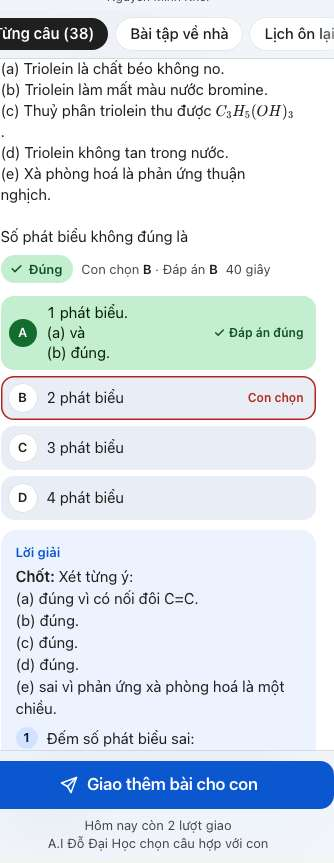
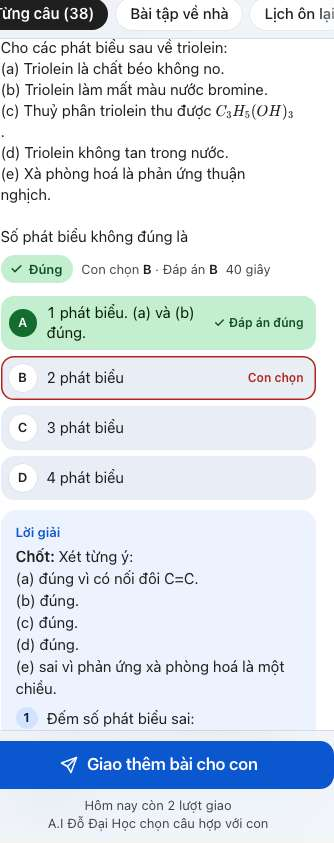
Vá ngắt dòng (Boss 17:43): KHÔNG tách ý ở PHƯƠNG ÁN — Hoá hay viết '(a), (b) và (c)' / '(1) và (3)' trong một phương án; chỉ ĐỀ và dòng LỜI GIẢI đi qua tachDongTheoY. Khoá nguồn viết lại (phương án là chỗ duy nhất không tách), test phương án giữ một dòng, đột biến 3/3, ảnh SAU 390 + 320 chụp lại.

diff --git a/tests/ph-bang-dong-thoi-gian-tung-cau-2109.test.tsx b/tests/ph-bang-dong-thoi-gian-tung-cau-2109.test.tsx
@@ -607,7 +607,7 @@ describe('TungCau — mở câu ⇒ hỏi máy chủ, phương án, lời giải
     await waitFor(() => expect(b3.container.querySelectorAll('[data-vung="cau-che"]').length).toBeGreaterThan(0))
   })
 
-  it('NGẮT DÒNG THEO Ý (thầy lệnh 21/09 17:3x, câu Triolein (a)…(e) dồn một cục): đề (danh sách + đã mở), phương án, lời giải đều qua tachDongTheoY — mỗi ý một dòng, câu hỏi kết một dòng riêng; (1)…(4) cũng vậy; đề không có ý KHÔNG đổi; công thức vẫn chỉ số dưới', async () => {
+  it('NGẮT DÒNG THEO Ý (thầy lệnh 21/09 17:3x, câu Triolein (a)…(e) dồn một cục): đề (danh sách + đã mở) và lời giải qua tachDongTheoY; PHƯƠNG ÁN giữ nguyên — mỗi ý một dòng, câu hỏi kết một dòng riêng; (1)…(4) cũng vậy; đề không có ý KHÔNG đổi; công thức vẫn chỉ số dưới', async () => {
     const TRIO = 'Cho các phát biểu sau về triolein: (a) Triolein là chất béo không no. (b) Triolein làm mất màu nước bromine. (c) Thuỷ phân triolein thu được $C_3H_5(OH)_3$. (d) Triolein không tan trong nước. (e) Xà phòng hoá là phản ứng thuận nghịch. Số phát biểu không đúng là'
     const raw = nhan(PH_APPLE)
     const c0 = raw.homNay.cau.find((c: { che?: string }) => !c.che)
@@ -621,7 +621,7 @@ describe('TungCau — mở câu ⇒ hỏi máy chủ, phương án, lời giải
     cleanup()
     // đã mở: đề ĐẦY ĐỦ của máy chủ + phương án + lời giải có ý
     const cauSau = JSON.stringify({ chot: 'Xét từng ý: (a) đúng vì có nối đôi. (b) đúng. (c) đúng. (d) đúng. (e) sai vì phản ứng xà phòng hoá là một chiều.', buoc: ['Đếm số phát biểu sai: (e) sai. Vậy có 1 phát biểu không đúng.'], ketQua: '(e)' })
-    goiChiTiet.mockResolvedValue({ kieu: 'ok', ct: docChiTietCau({ ...CHI_TIET, de: TRIO, phuongAn: ['A. 1. Nhận định (a) đúng. (b) sai.', 'B. 2', 'C. 3', 'D. 4'], dapAn: 'A', loiGiai: cauSau })! })
+    goiChiTiet.mockResolvedValue({ kieu: 'ok', ct: docChiTietCau({ ...CHI_TIET, de: TRIO, phuongAn: ['A. 1 phát biểu. (a) và (b) đúng.', 'B. Chỉ (a), (b) và (c)', 'C. (1) và (3)', 'D. 4'], dapAn: 'A', loiGiai: cauSau })! })
     const b = moMotCau(['moc-1'], pmOf(raw))
     const r0 = b.hang()[0]!
     fireEvent.click(r0.querySelector('button')!)
@@ -632,8 +632,10 @@ describe('TungCau — mở câu ⇒ hỏi máy chủ, phương án, lời giải
     expect(deDay[6]).toBe('Số phát biểu không đúng là') // câu hỏi kết một dòng riêng
     expect(r0.querySelector('.phm-cau__de sub, .phm-cau__de .katex')).toBeTruthy() // C₃H₅(OH)₃ vẫn có chỉ số dưới sau khi tách
     expect(r0.querySelector('.phm-cau__de')!.textContent).not.toContain('$')
-    const pa = r0.querySelector('.phm-pa li:first-child > span')!.textContent!.split('\n')
-    expect(pa.length).toBeGreaterThanOrEqual(2) // phương án cũng tách ý
+    // PHƯƠNG ÁN KHÔNG tách ý (Boss vá 17:43): "(a) và (b)", "(a), (b) và (c)", "(1) và (3)" là MỘT phương án — giữ nguyên một dòng logic
+    const pa = [...r0.querySelectorAll('.phm-pa li > span')].map((x) => x.textContent!)
+    expect(pa).toEqual(['1 phát biểu. (a) và (b) đúng.', 'Chỉ (a), (b) và (c)', '(1) và (3)', '4'])
+    expect(pa.some((x) => x.includes('\n'))).toBe(false)
     const chot = r0.querySelector('.phm-lg-chot')!.textContent!.split('\n')
     expect(chot.length).toBeGreaterThanOrEqual(5) // lời giải: Chốt tách (a)…(e)
     expect(r0.querySelector('.phm-lg-buoc li span')!.textContent!.split('\n').length).toBeGreaterThanOrEqual(2)
@@ -652,15 +654,19 @@ describe('TungCau — mở câu ⇒ hỏi máy chủ, phương án, lời giải
     expect((moMotCau(['moc-1'], pmOf(raw3)).hang()[0]!.querySelector('.phm-cau__de') as HTMLElement).textContent).toBe('Công thức phân tử của acetylene là gì?')
   })
 
-  it('khoá nguồn ngắt dòng: MỌI chỗ TungCau in đề / phương án / lời giải qua tachDongTheoY (một nguồn với TheCau, không regex mới) + CSS pre-line cho các khối ấy', () => {
+  it('khoá nguồn ngắt dòng: MỌI chỗ TungCau in ĐỀ / LỜI GIẢI qua tachDongTheoY (PHƯƠNG ÁN là chỗ duy nhất không) (một nguồn với TheCau, không regex mới) + CSS pre-line cho các khối ấy', () => {
     const tsx = fs.readFileSync(path.join(process.cwd(), 'src/components/ph-moi/bang/TungCau.tsx'), 'utf8').replace(/\/\/.*$/gm, '')
-    const dung = [...tsx.matchAll(/<ChemText text=\{([^}]*(?:\}[^}]*)?)\}/g)].map((m) => m[1]!)
+    const dung = [...tsx.matchAll(/<ChemText text=\{([^{}]*)\}/g)].map((m) => m[1]!)
     expect(dung.length).toBeGreaterThanOrEqual(6)
-    for (const d of dung) expect(d, d).toMatch(/^tachDongTheoY\(/)
+    // ĐỀ + các dòng LỜI GIẢI đều qua tachDongTheoY; PHƯƠNG ÁN (`chu`) là chỗ DUY NHẤT không tách
+    const khong = dung.filter((d) => !/^tachDongTheoY\(/.test(d))
+    expect(khong).toEqual(['chu'])
+    expect(dung.filter((d) => /^tachDongTheoY\(/.test(d))).toHaveLength(dung.length - 1)
     expect(tsx).toContain("from '../../../lib/tach-dong-cau'")
     expect(tsx).not.toMatch(/\.replace\(\/[^/]*\((?:1|a)\)/) // không tự viết regex tách ý
     const css = fs.readFileSync(path.join(process.cwd(), 'src/components/ph-moi/bang/TungCau.css'), 'utf8')
-    for (const lop of ['.phm-cau__de', '.phm-pa li > span', '.phm-loi-giai p', '.phm-lg-chot', '.phm-lg-ket', '.phm-lg-buoc li > span']) expect(css, lop).toContain(lop)
+    for (const lop of ['.phm-cau__de', '.phm-loi-giai p', '.phm-lg-chot', '.phm-lg-ket', '.phm-lg-buoc li > span']) expect(css, lop).toContain(lop)
+    expect(css).not.toContain('.phm-pa li > span') // phương án không pre-line
     expect(css).toMatch(/white-space: pre-line/)
   })
 

diff --git a/src/components/ph-moi/bang/TungCau.css b/src/components/ph-moi/bang/TungCau.css
@@ -36,5 +36,5 @@
 .phm-lg-buoc li > i { width: 22px; height: 22px; border-radius: 50%; display: grid; place-items: center; font-style: normal; font-size: 0.75rem; font-weight: 700; background: var(--phm-nhan-nen); color: var(--phm-tren-nhan-nen); }
 .phm-lg-ket { padding-top: 8px; border-top: 1px solid var(--phm-vach); }
 
-/* NGẮT DÒNG THEO Ý (thầy lệnh 21/09 17:3x, câu Triolein (a)…(e) dồn một cục): đề, phương án, lời giải đi qua tachDongTheoY (src/lib/tach-dong-cau.ts — MỘT nguồn với TheCau) rồi hiện từng dòng nhờ pre-line */
-.phm-cau__de, .phm-pa li > span, .phm-loi-giai p, .phm-lg-chot, .phm-lg-ket, .phm-lg-buoc li > span { white-space: pre-line; }
+/* NGẮT DÒNG THEO Ý (thầy lệnh 21/09 17:3x, câu Triolein (a)…(e) dồn một cục): đề và các dòng lời giải đi qua tachDongTheoY (PHƯƠNG ÁN thì KHÔNG: "(a), (b) và (c)" nằm trong một phương án) (src/lib/tach-dong-cau.ts — MỘT nguồn với TheCau) rồi hiện từng dòng nhờ pre-line */
+.phm-cau__de, .phm-loi-giai p, .phm-lg-chot, .phm-lg-ket, .phm-lg-buoc li > span { white-space: pre-line; }

diff --git a/src/components/ph-moi/bang/TungCau.tsx b/src/components/ph-moi/bang/TungCau.tsx
@@ -390,13 +390,14 @@ function ChiTietMo({ ct, conChon }: { ct: Extract<ChiTietCau, { kieu: 'ok' }>; c
             const m = /^\s*([A-Da-d])[.)]\s*/.exec(p)
             const ma = m ? m[1]!.toUpperCase() : String.fromCharCode(65 + i)
             const chu = m ? p.slice(m[0].length) : p
+            // PHƯƠNG ÁN: KHÔNG tách ý (Boss vá 21/09 17:43) — Hoá hay viết "(a), (b) và (c)" / "(1) và (3)" trong MỘT phương án; cả app chỉ tách ĐỀ (TheCau, DoanCau, MomQuestionMedia)
             const laDung = dap.length > 0 ? dap.includes(ma) : ct.dapAn.includes(ma)
             const laChon = chon.includes(ma)
             return (
               <li key={i} data-dung={laDung ? '' : undefined} data-chon={laChon && !laDung ? '' : undefined}>
                 <i>{ma}</i>
                 <span>
-                  <ChemText text={tachDongTheoY(chu)} />
+                  <ChemText text={chu} />
                 </span>
                 {laDung ? (
                   <em>

diff --git a/SO-VIEC-GIAO-DIEN.md b/SO-VIEC-GIAO-DIEN.md
@@ -387,3 +387,7 @@ TEST: +2 trong ph-bang-dong-thoi-gian-tung-cau (ngắt dòng đề danh sách + 
 Máy chủ (btvn-nang-do-d1.ts, Code 3) trả `moSom: {duoc, lyDo, chu}` trong /btvn/xong-lo khi chặng vừa xong KHÔNG phải chặng cuối. Máy khách: `docKetQuaChang` đọc chặt `{duoc: boolean, lyDo}` (KHÔNG giữ `chu` của máy chủ); `chuMoSomCuaChang`/`theChangView.moSom` dựng chữ bằng `chuMoSomChang` của Code 1 (mo-som-chang.ts, một nguồn) với số của chặng vừa xong (`chang.soDung/soCau`, chặng kế theo `loDaXong`): đủ điều kiện "Em làm tốt chặng 1 (đúng 9/10). Em được mở sớm chặng 2 ngay hôm nay." · chưa đủ 80 % / hôm nay đã mở sớm ⇒ "Chặng 2 mở 00:00 ngày mai. Muốn luyện thêm hôm nay: vào Đảo thần thú." · hết chặng ⇒ câu hết chặng. KHÔNG nói điều chưa chắc: `da_mo_san` (chặng kế đã mở sẵn), `thua_cas` (không ghi được), lý do lạ, thiếu moSom ⇒ không thẻ; chặng cuối (đã nộp cả bài) và phần thử sức thêm ⇒ không thẻ. `TheCuoiChang` hiện thẻ `tcc-mo-som` (xanh khi được mở sớm) ngay dưới thẻ nộp.
 TEST: tests/mo-som-chang-man-2109.test.tsx 8 (đọc chặt · số chặng theo loDaXong · các lý do · không nói điều chưa chắc · chặng cuối/thử sức · thẻ thật · khoá nguồn); đột biến 5/5; sửa CÓ CHỦ Ý khoá "tệp thuần" của btvn-ca-nhan-kieu (được nhập thêm mo-som-chang.ts — cũng thuần, có kiểm không API trình duyệt); tsc -b + tsc -p server sạch; kề cận 30 test xanh. Chromium (trang xem thử dev `src/components/bang-nhiem-vu/xem-thu-the-cuoi-chang.html?som=duoc|chua|khong`): 390/320 sáng + 390 tối 0 tràn, 0 lỗi, 0 chữ < 4,5:1, 0 đích < 48 px. Ảnh docs/anh-mo-som-2109/ (4 JPG).
 CHƯA (đợt này): Võ đài HUD "Lượt n/12 · còn N giây"; phần chưa làm của bảng Apple (count-up, gộp nhóm ph-e, điểm tối đa từng phần của ca — cần Code 3 `phan[].toiDa`).
+
+## 21/09 17:43 · VÁ ngắt dòng (Boss: f4d86a1 ĐẠT CÓ ĐIỀU KIỆN — lỗi do đề bài của Boss) — Code 2
+KHÔNG áp `tachDongTheoY` cho PHƯƠNG ÁN: cả app chỉ tách ĐỀ (TheCau, DoanCau, MomQuestionMedia); phương án Hoá hay có dạng "(a), (b) và (c)" / "(1) và (3)" trong MỘT phương án — bộ tách bẻ thành nhiều dòng (ảnh SAU cũ lộ đúng lỗi: "1 phát biểu. / (a) và / (b) đúng."). Giữ tách cho ĐỀ và các dòng LỜI GIẢI (Chốt / bước / Kết quả / chữ thuần). TungCau: `<ChemText text={chu} />` (phương án) trần; CSS bỏ `.phm-pa li > span` khỏi pre-line. Khoá nguồn sửa: ChemText của ĐỀ + LỜI GIẢI bắt đầu `tachDongTheoY(`, phương án (`chu`) là chỗ DUY NHẤT không (regex khoá viết lại cho đúng: `[^{}]*`); test phương án "(a) và (b)", "(a), (b) và (c)", "(1) và (3)" giữ MỘT dòng. Đột biến 3/3 (đề · phương án bị tách trở lại · bước). Ảnh SAU 390 + 320 chụp lại (phương án A nguyên câu).
+NỢ NHỎ (không chặn, để sau): dấu chấm sau công thức KaTeX ở cuối dòng có thể rơi xuống dòng riêng ("…thu được C₃H₅(OH)₃" rồi "." dòng dưới) — do ChemText (tệp dùng chung), không sửa ở đây.
